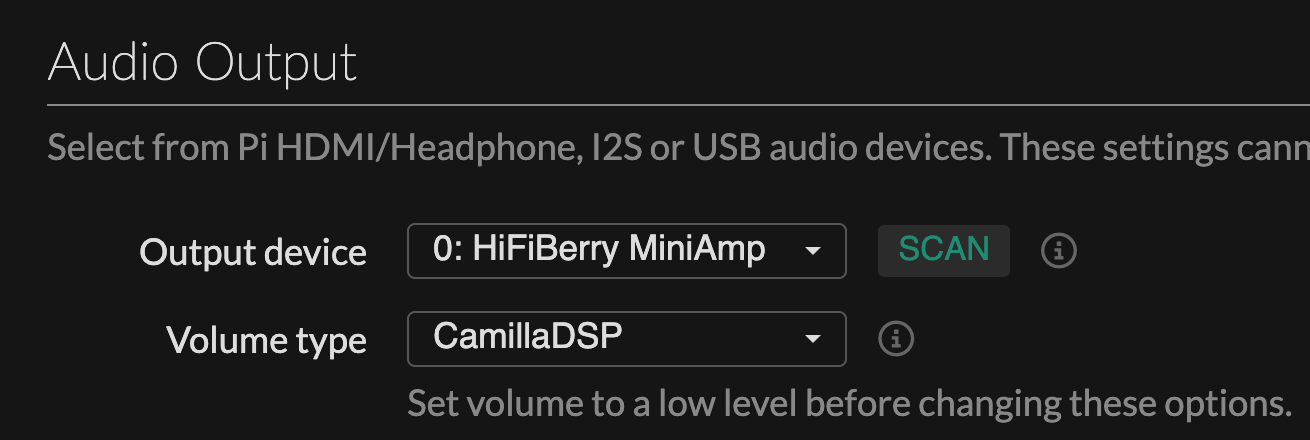
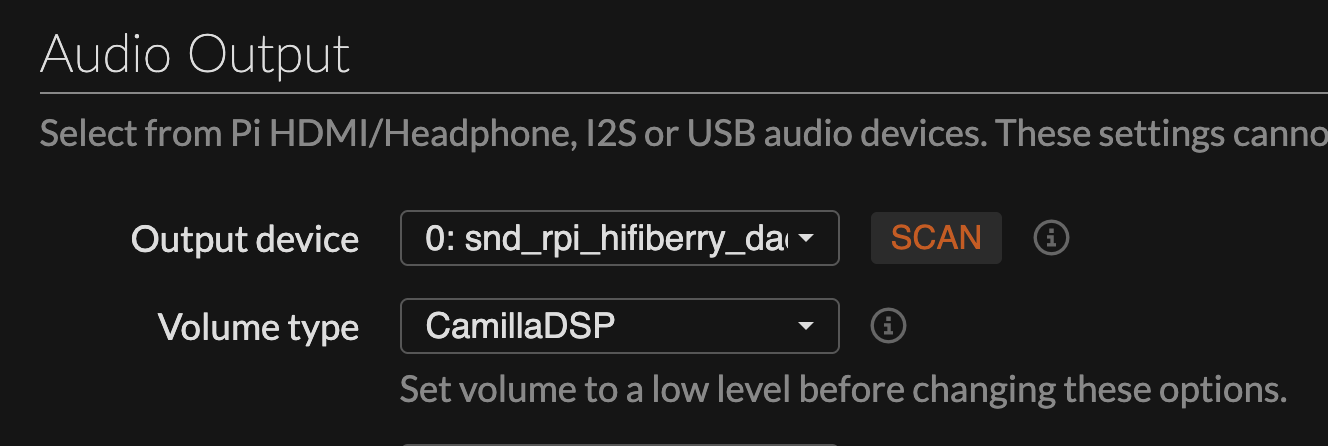
doc: update

diff --git a/filesystem/var/www/daemon/rotenc.py b/filesystem/var/www/daemon/rotenc.py
@@ -11,6 +11,7 @@ from time import sleep, time
 import sqlite3
 import musicpd
 import os
+import requests
 
 program_version = "1.0"
 
@@ -71,8 +72,13 @@ def main():
 
 def set_volume(volume):
 	global mpd_cli
+ 
+	# For some reasons, on boot, volume is set to 0 despite of the `set_volume` in the main function.
+	# If volume equal 0, we assume it's a volume initialisation and set it to initial volume.
+	if volume == 0:
+		volume = init_volume
 
-	# Clamp volume
+	# Reduced volume range: 1 - 100
 	volume = max(1, min(100, volume))
 
 	if print_debug:
@@ -96,6 +102,14 @@ def set_volume(volume):
 	mpd_cli.connect()
 	mpd_cli.setvol(volume)
 	mpd_cli.disconnect()
+ 
+ 	# Handle vollume for plexamp
+	PLEXAMP_URL = f"http://localhost:32500/player/playback/setParameters?volume={volume}&commandID=9999&type=music"
+	try:
+		response = requests.get(PLEXAMP_URL)
+		response.raise_for_status()
+	except requests.RequestException as e:
+		print(f"Error setting Plexamp volume: {e}")
 
 def encoder_isr(pin):
 	global current_pos, last_a_state, last_b_state, thread_lock
@@ -153,14 +167,8 @@ def update_volume(direction, step):
 		row = db_cursor.fetchone()
 		volume_mpd_max = int(row['value'])
 
-	if current_vol == 0:
-		current_vol = init_volume
-     
-	if print_debug:
-		print("update_volume:" + str(current_vol))
-
 	new_volume = current_vol + step if direction == "+" else current_vol - step
-	new_volume = min(volume_mpd_max, max(1, min(100, new_volume)))
+	new_volume = min(volume_mpd_max, max(0, min(100, new_volume)))
 
 	set_volume(new_volume)
 

diff --git a/README.md b/README.md
@@ -20,7 +20,9 @@ This educational project aims to build a prototype of a Bluetooth speaker that i
 - [🎧 DAC : HiFiBerry MiniAmp](#-dac--hifiberry-miniamp)
   - [🪛 GPIO DAC wiring](#-gpio-dac-wiring)
   - [⚙ UI Settings](#-ui-settings)
-  - [📈 Alsa setup](#-alsa-setup)
+- [📈 ALSA CONFIG](#-alsa-config)
+  - [⚙ Sound process](#-sound-process)
+  - [📊 Equalizer with CamillaDSP](#-equalizer-with-camilladsp)
 - [🎛 Rotary Encoder](#-rotary-encoder)
   - [🪛 GPIO rotary wiring](#-gpio-rotary-wiring)
   - [🧠 Smart button](#-smart-button)
@@ -39,7 +41,7 @@ This educational project aims to build a prototype of a Bluetooth speaker that i
 - Raspberry pi zero powered by the battery
 - Bluetooth connexion (pin optional)
 - Rotary encoder volume (bluetooth + local)
-- Use of alsaequal
+- Use of alsaequal or CamillaDSP
 - Moode UI accessible by URL:
   - Using preset wifi network if reachable
   - Using wifi hotspot if the preset network is not reachable,.
@@ -75,7 +77,7 @@ This educational project aims to build a prototype of a Bluetooth speaker that i
 
 **Sound quality +++**
 
-After some adjustments using Moode’s Graphic EQ, the sound quality is more than decent.
+After some adjustments using Moode’s EQ, the sound quality is more than decent.
 Be careful with low-frequency vibrations — it's important to properly isolate and secure each component to avoid any unwanted buzzing or rattling.
 
 **Battery duration ++**
@@ -118,26 +120,35 @@ Efficiency should be much better with a more powerful and better-manufactured so
 
 ### ⚙ UI settings
 
-1. Go to audio settings and set **"DT Overlay"** to **"hifiberry-dar"**
+1. Go to audio settings and set **"DT Overlay"** to **"hifiberry-dac"**
 2. Reboot (if needed)
 3. Go to audio settings and set **"Output device"** to **"0:snd_rpi_hifiberry_dac"**
 4. Sound should output from the DAC
+5. OPTIONAL : disable HDMI audio interface by editing `/boot/firmware/config.txt` add or update : 
+```ini
+ dtparam=audio=off
+ dtoverlay=vc4-kms-v3d,noaudio
+```
 
 &nbsp;
 
-### 📈 Alsa setup
+## 📈 ALSA CONFIG
 
-Goals:
-- Be able to use Graphic EQ from Moode UI (alsaequal) on bluetooth inbounds
-- Be able to control volume with rotary encoder
+### ⚙ Sound process
+
+**Goals:**
+- Be able to use Equalizer from Moode UI (AlsaEqual or CamillaDSP) on bluetooth inbounds
+- Be able to control volume with rotary encoder (use of `amixer` command)
+
+&nbsp;
 
 The HifiBerry Miniamp doesn't have any amixer controls because the PCM5102A chip **doesn't include any hardware volume control**.
 
 You can't use amixer as-is — you need to add a **software volume control** (softvol).
 
-But using softvol by-pass Graphiq EQ configuration set in Moode UI.
+But using softvol by-pass equalizer configuration set in Moode UI.
 
-In order to get volume management with rotary encore and apply an equalizer, we need use **softvol** and **alsaequal**.
+In order to get volume management with rotary encoder and apply an equalizer, we need use **softvol** and **alsaequal/camilladsp**.
 
 <pre>
 ℹ Bluetooth sound process
@@ -151,7 +162,7 @@ In order to get volume management with rotary encore and apply an equalizer, we 
         ↓
 [softvol] ← software volume, controllable via `amixer`
          ↓
-[alsaequal] ← Alsa Equalizer
+[alsaequal/camilladsp] ← Equalizer
          ↓
 [HiFiBerry MiniAmp sound card]
 </pre>
@@ -162,12 +173,39 @@ Edit or create :
 sudo nano /etc/asound.conf
 ```
 Example below assume your dac is identified by `card 0`. (cf `aplay -l`)
+
 ➡ [**See file content**](./filesystem/etc/asound.conf)
 
 Reboot and stream some music to the pi using bluetooth.
 Graphic EQ in Moode UI > Audio should have effect.
 
+
+
 &nbsp;
+
+### 📊 Equalizer with CamillaDSP
+
+Set `Volume Type` to `CamillaDSP` :
+
+[<img title="a title" alt="Inside" src="./.github/img/camilla-moode.png" style="width:33%" />](./.github/img/camilla-moode.png)
+
+---
+
+In bottom of the audio settings page, you will find `Equalizers` section.<br />
+Here you can activate the CamillaDSP equalizer feature and set a config.
+
+You can also create new config file and upload them :
+
+1. Click on `EDIT` CamillaDSP button.
+2. In `File management` section click on `upload` to select config file
+3. On top of the page, in `Signal processing` selector, pick your new configuration. 
+
+&nbsp;
+
+Here are 2 config file samples including a 10 bands equalizer :<br /><br />
+[➡ Default EQ profile](./config/OaKhz-Default.yml)<br />
+[➡ Loudness EQ profile](./config/OaKhz-Loudness.yml)
+
 
 ## 🎛 ROTARY ENCODER
 
@@ -294,10 +332,11 @@ sudo systemctl enable shutdown-sound.service
 
 ## 📻 PLEXAMP SETUP
 
-http://moode.local/setup_3rdparty_plexamp.txt
+https://github.com/moode-player/moode/blob/master/www/setup_3rdparty_plexamp.txt
 
 ## 📚 RESOURCES
 
 - Moode doc : https://github.com/moode-player/docs/blob/main/setup_guide.md
-- Plexamp - physical volume : https://forums.plex.tv/t/physical-volume-controls-are-a-must-how-to-add-to-plexamp/916914/4
 - MP3 sound effects : https://pixabay.com/sound-effects
+- Plexamp - physical volume : https://forums.plex.tv/t/physical-volume-controls-are-a-must-how-to-add-to-plexamp/916914/4
+- Tidal connect instruction (not tested yet): https://linuxaudiofoundation.org/musiclounge-tidal-connect-installation/
